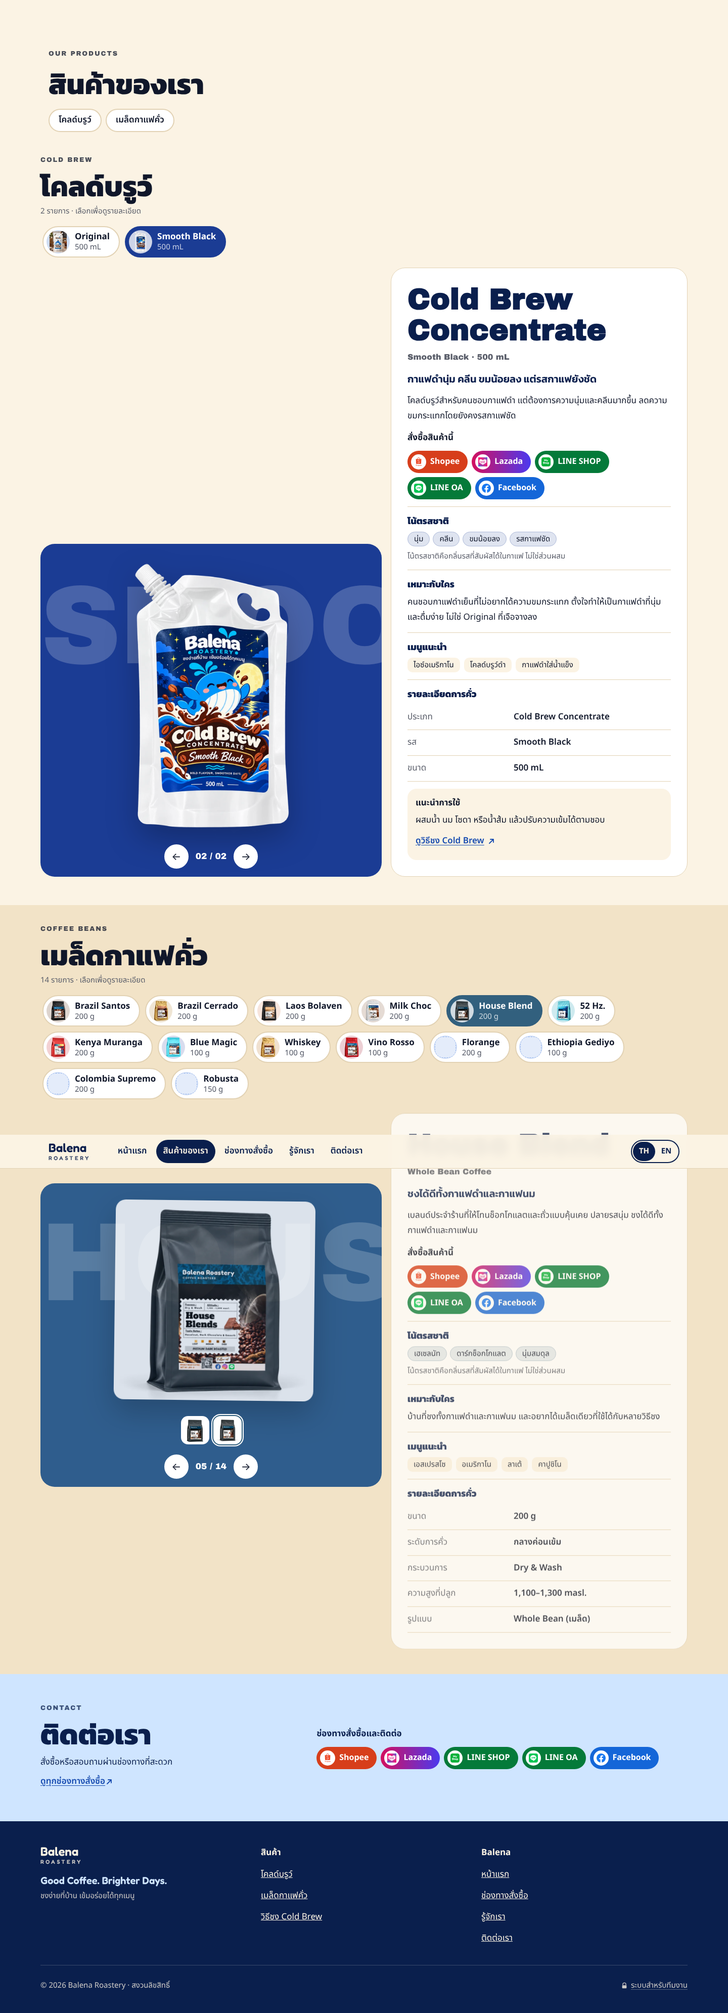
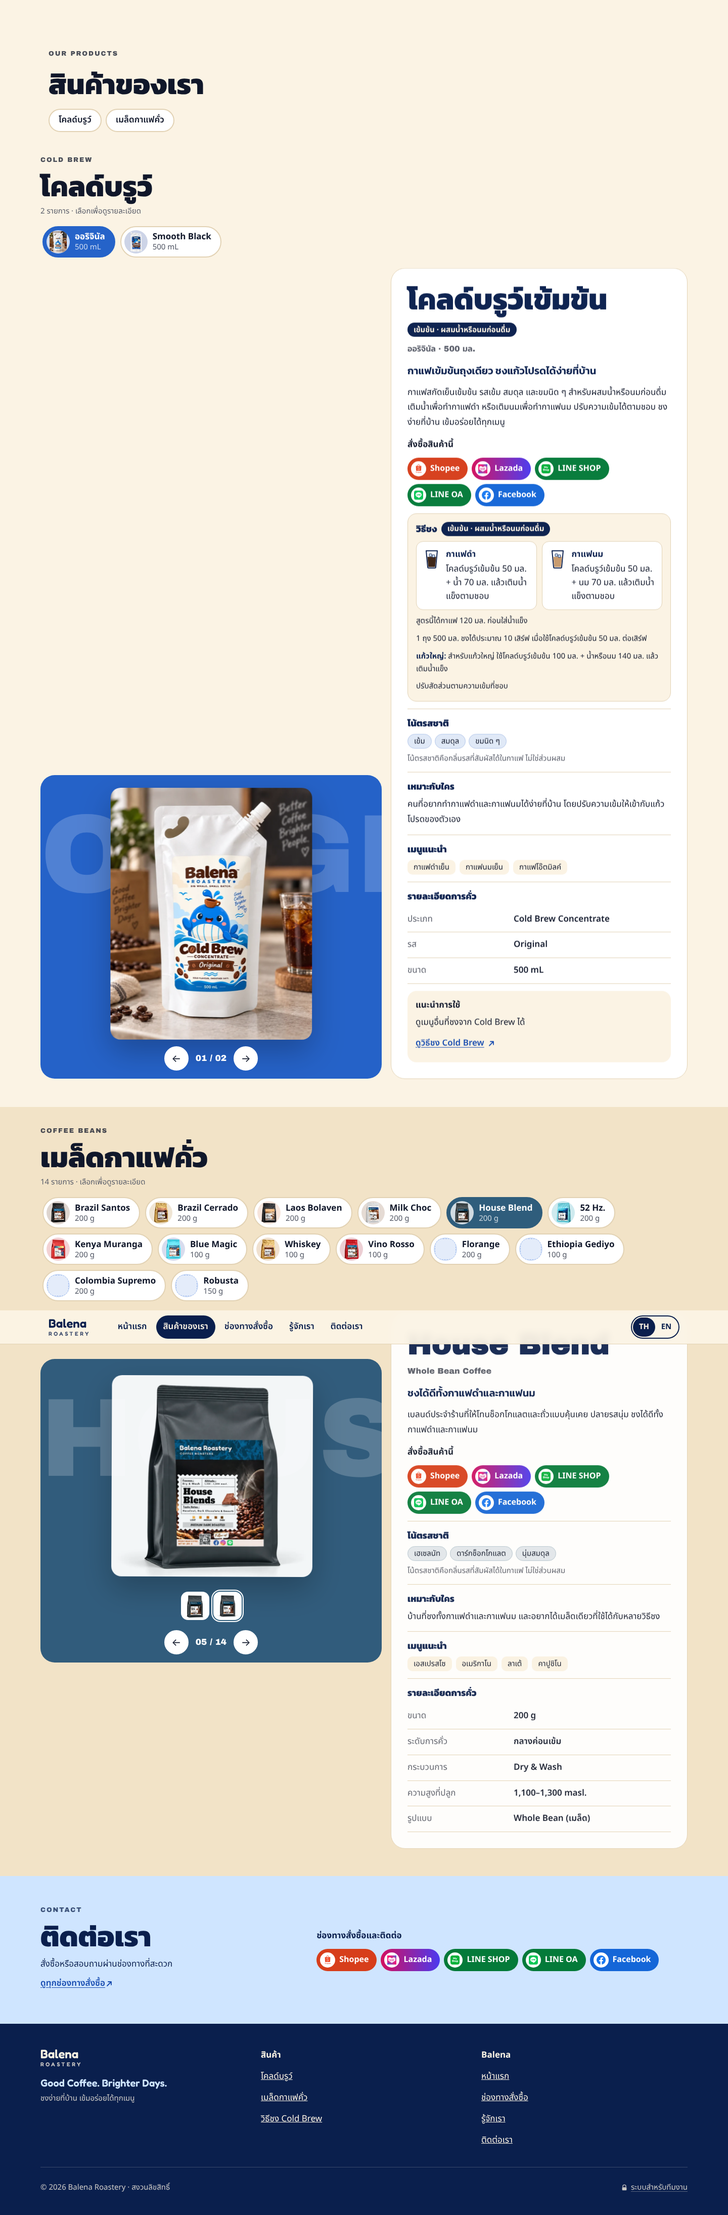
Original cold brew: concentrate label photo, owner's TH/EN copy, how-to-mix
- New photo (the owner's café pouch with the Cold Brew CONCENTRATE · Original ·
  500 mL label), unchanged and uncropped, as 480/960 webp; Meta catalog JPG too.
  Smooth Black and other products untouched.
- Name โคลด์บรูว์เข้มข้น / Cold Brew Concentrate, variant ออริจินัล · 500 มล.,
  headline, description, notes, who it's for and drinks as supplied.
- 'เข้มข้น · ผสมน้ำหรือนมก่อนดื่ม / Concentrate · mix with water or milk' by the
  name and on the home card; 'วิธีชง / How to mix' cards (50 + 70 mL water or
  milk), 120 mL before ice, ~10 servings per pouch, larger drink, adjust note.
- Slug, links, purchase buttons and Meta id unchanged; check:site covers it.

Claude-Session: https://claude.ai/code/session_01NhFLDnAE3nR7iToKXbduQe

diff --git a/src/data/products.ts b/src/data/products.ts
@@ -48,6 +48,24 @@ export type Product = {
   shortName: string;
   /** Second line under the name, from the label. */
   subtitle: string;
+  /**
+   * Owner-supplied Thai/English name, variant and short (chip) name. When set they replace
+   * `name`, `subtitle` and `shortName` on the page; read them with nameOf/variantOf/shortOf.
+   */
+  title?: T;
+  variant?: T;
+  chip?: T;
+  /** A concentrate: shows "เข้มข้น / Concentrate" by the name. Must be mixed before drinking. */
+  concentrate?: boolean;
+  /** "วิธีชง / How to mix" cards and notes, exactly as the owner supplied them. */
+  howToMix?: {
+    cards: { kind: "black" | "milk"; title: T; text: T }[];
+    /** What one serving makes, e.g. 120 mL before ice. */
+    makes: T;
+    servings: T;
+    larger: T;
+    adjust: T;
+  };
   category: Category;
   status: Status;
   /**
@@ -160,32 +178,58 @@ export const allProducts: Product[] = [
   // ---------- Cold brew ----------
   {
     slug: "cold-brew-coffee-original",
-    name: "Cold Brew Coffee",
+    // Slug kept from the first listing (addresses and Meta ids use it); the product is a concentrate.
+    name: "Cold Brew Concentrate",
     shortName: "Original",
     subtitle: "Original · 500 mL",
+    title: t("โคลด์บรูว์เข้มข้น", "Cold Brew Concentrate"),
+    variant: t("ออริจินัล · 500 มล.", "Original · 500 mL"),
+    chip: t("ออริจินัล", "Original"),
+    concentrate: true,
     category: "cold-brew",
     status: "available",
     published: true,
     images: [{
-      file: "cold-brew-coffee-original", width: 1122, height: 1402, cutout: false,
-      alt: t("ถุง Balena Cold Brew Coffee Original 500 มล. วางบนเคาน์เตอร์ ข้างแก้วกาแฟเย็น", "Balena Cold Brew Coffee Original 500 mL pouch on a counter next to a glass of iced coffee"),
+      file: "cold-brew-concentrate-original", width: 1122, height: 1402, cutout: false,
+      alt: t(
+        "ถุง Balena Cold Brew Concentrate Original 500 มล. มีจุกเกลียว วางบนเคาน์เตอร์ ข้างแก้วกาแฟเย็น",
+        "Balena Cold Brew Concentrate Original 500 mL spouted pouch on a counter next to a glass of iced coffee",
+      ),
     }],
     size: "500 mL",
     sizeId: "500ml",
     type: "Cold Brew Concentrate",
     flavour: "Original",
-    benefit: t("เบสกาแฟอเนกประสงค์ ทำได้ทั้งกาแฟดำและกาแฟนม", "A versatile base for black and milk coffee"),
+    benefit: t("กาแฟเข้มข้นถุงเดียว ชงแก้วโปรดได้ง่ายที่บ้าน", "One pouch. Your favourite coffee, made simple."),
     story: t(
-      "โคลด์บรูว์ตัวหลักของ Balena เป็นกาแฟเข้มข้นที่ต่อยอดได้ง่าย เติมน้ำเป็นกาแฟดำ หรือเติมนมเป็นกาแฟนมได้ภายในไม่กี่วินาที",
-      "The core Balena cold brew: a versatile concentrated coffee base that can become black coffee or milk coffee in seconds.",
+      "กาแฟสกัดเย็นเข้มข้น รสเข้ม สมดุล และขมนิด\u00A0ๆ สำหรับผสมน้ำหรือนมก่อนดื่ม เติมน้ำเพื่อทำกาแฟดำ หรือเติมนมเพื่อทำกาแฟนม ปรับความเข้มได้ตามชอบ ชงง่ายที่บ้าน เข้มอร่อยได้ทุกเมนู",
+      "A bold, balanced cold brew concentrate with a lightly bitter finish. Mix with water for black coffee or milk for a creamy coffee, then adjust the strength to your taste. Your favorite coffee, made simple.",
     ),
-    notes: [t("เข้ม", "Bold"), t("สมดุล", "Balanced"), t("ขมนิด\u00A0ๆ", "Slightly bitter")],
+    notes: [t("เข้ม", "Bold"), t("สมดุล", "Balanced"), t("ขมนิด\u00A0ๆ", "Lightly bitter")],
     whoFor: t(
-      "คนที่อยากมีเบสกาแฟติดตู้เย็นไว้ทำได้ทั้งกาแฟดำและกาแฟนมที่บ้าน เป็นรสมาตรฐานของไลน์โคลด์บรูว์",
-      "Anyone who wants one coffee base at home for both black and milk drinks. It's the benchmark flavour of the range.",
+      "คนที่อยากทำกาแฟดำและกาแฟนมได้ง่ายที่บ้าน โดยปรับความเข้มให้เข้ากับแก้วโปรดของตัวเอง",
+      "For anyone who wants easy black or milk coffee at home, with the freedom to adjust each cup to their taste.",
     ),
-    drinks: [t("กาแฟดำ", "Black"), t("อเมริกาโน", "Americano"), t("กาแฟนม", "Milk coffee"), t("กาแฟโอ๊ตมิลค์", "Oat milk coffee")],
-    use: COLD_BREW_USE,
+    drinks: [t("กาแฟดำเย็น", "Iced Black Coffee"), t("กาแฟนมเย็น", "Iced Milk Coffee"), t("กาแฟโอ๊ตมิลค์", "Oat Milk Coffee")],
+    howToMix: {
+      cards: [
+        { kind: "black", title: t("กาแฟดำ", "Black coffee"),
+          text: t("โคลด์บรูว์เข้มข้น 50 มล. + น้ำ 70 มล. แล้วเติมน้ำแข็งตามชอบ", "Mix 50 mL concentrate with 70 mL water, then add ice to taste.") },
+        { kind: "milk", title: t("กาแฟนม", "Milk coffee"),
+          text: t("โคลด์บรูว์เข้มข้น 50 มล. + นม 70 มล. แล้วเติมน้ำแข็งตามชอบ", "Mix 50 mL concentrate with 70 mL milk, then add ice to taste.") },
+      ],
+      makes: t("สูตรนี้ได้กาแฟ 120 มล. ก่อนใส่น้ำแข็ง", "This recipe makes 120 mL before ice."),
+      servings: t(
+        "1 ถุง 500 มล. ชงได้ประมาณ 10 เสิร์ฟ เมื่อใช้โคลด์บรูว์เข้มข้น 50 มล. ต่อเสิร์ฟ",
+        "One 500 mL pouch makes approximately 10 servings when using 50 mL concentrate per serving.",
+      ),
+      larger: t(
+        "สำหรับแก้วใหญ่ ใช้โคลด์บรูว์เข้มข้น 100 มล. + น้ำหรือนม 140 มล. แล้วเติมน้ำแข็ง",
+        "For a larger drink, mix 100 mL concentrate with 140 mL water or milk, then add ice.",
+      ),
+      adjust: t("ปรับสัดส่วนตามความเข้มที่ชอบ", "Adjust the ratio to your preferred strength."),
+    },
+    use: { text: t("ดูเมนูอื่นที่ชงจาก Cold Brew ได้", "More drinks you can make with Cold Brew"), link: RECIPES },
     accent: "#2563c9",
     internal: {
       csvName: "Original", aliases: ["Cold Brew Coffee Original", "Cold Brew Concentrate Original"],
@@ -193,7 +237,11 @@ export const allProducts: Product[] = [
       difference: t("เป็นรสหลักมาตรฐานของไลน์ และใช้งานได้หลากหลายที่สุด", "The benchmark flavour and most versatile cold-brew option."),
       opsCodes: ["CB-ORIGINAL-500"],
     },
-    gaps: ["ราคา", "สต็อก", "ฉลากเขียน \"Cold Brew Coffee\" ส่วน CSV ระบุ Cold Brew Concentrate", "มีแต่ภาพถ่ายพร้อมฉากหลัง ยังไม่มีภาพตัดพื้น"],
+    gaps: [
+      "ราคา", "สต็อก",
+      "สัดส่วนบนหน้านี้ 50 + 70 มล. (เจ้าของกำหนด) แต่หน้าวิธีชง /cold-brew-recipes/ ใช้ 50 + 100 มล.",
+      "รูปที่ใช้เป็นสำเนาจากแชต (webp 1122 × 1402) ไม่ใช่ไฟล์ PNG ต้นฉบับ",
+    ],
   },
   {
     slug: "cold-brew-concentrate-smooth-black",
@@ -624,6 +672,13 @@ export const allProducts: Product[] = [
     extraGaps: ["กระบวนการและระดับการคั่วขึ้นอยู่กับล็อต"],
   }),
 ];
+
+/** The name, variant and chip name in the page language (owner-supplied translation or label text). */
+export const nameOf = (p: Product, lang: Lang) => p.title?.[lang] ?? p.name;
+export const variantOf = (p: Product, lang: Lang) => p.variant?.[lang] ?? p.subtitle;
+export const shortOf = (p: Product, lang: Lang) => p.chip?.[lang] ?? p.shortName;
+/** True when the name follows the page language (else it is printed English). */
+export const translatedName = (p: Product) => !!p.title;
 
 /** Products shown on the site. */
 export const products: Product[] = allProducts.filter((p) => p.published);

diff --git a/src/shop/ui.tsx b/src/shop/ui.tsx
@@ -1,5 +1,5 @@
 import { useEffect, useState, type CSSProperties, type ReactNode } from "react";
-import { purchasable, type Product, type ProductImage } from "../data/products";
+import { nameOf, purchasable, variantOf, type Product, type ProductImage } from "../data/products";
 import { setLang, useDocumentLang, useLang, type Lang } from "../i18n/lang";
 import { shopText, type ShopText } from "../i18n/shop";
 import { CHANNEL_LOGOS } from "../config/purchase-links";
@@ -67,6 +67,47 @@ export function NoteTags({ product, max }: { product: Product; max?: number }) {
   );
 }
 
+/** "เข้มข้น / Concentrate": shown next to a concentrate's name so nobody drinks it straight. */
+export function ConcentrateBadge() {
+  const t = useText();
+  return <span className="conc-badge">{t.catalog.concentrate}</span>;
+}
+
+/** A small glass: dark coffee for black, lighter for milk (decorative). */
+function Glass({ kind }: { kind: "black" | "milk" }) {
+  return (
+    <svg className="mix__glass" viewBox="0 0 32 40" width="32" height="40" aria-hidden="true" focusable="false">
+      <path d="M5 4h22l-3 32a2 2 0 0 1-2 2H10a2 2 0 0 1-2-2L5 4z" fill="#fff" stroke="currentColor" strokeWidth="2" strokeLinejoin="round" />
+      <path d="M7.4 16h17.2l-2 20H9.4z" fill={kind === "black" ? "#3b2214" : "#c89a6c"} />
+      <rect x="11" y="10" width="5" height="5" rx="1" fill="#cfe5ff" stroke="currentColor" strokeWidth="1" />
+      <rect x="17" y="12" width="5" height="5" rx="1" fill="#cfe5ff" stroke="currentColor" strokeWidth="1" />
+    </svg>
+  );
+}
+
+/** "วิธีชง / How to mix": recipe cards, what one serving makes, servings per pouch, larger drink. */
+export function HowToMix({ product }: { product: Product }) {
+  const t = useText();
+  const m = product.howToMix!;
+  return (
+    <section className="mix" aria-labelledby={`${product.slug}-mix`}>
+      <h4 id={`${product.slug}-mix`}>{t.catalog.mixTitle} {product.concentrate && <ConcentrateBadge />}</h4>
+      <ul className="mix__cards">
+        {m.cards.map((c) => (
+          <li key={c.kind} className={`mix__card mix__card--${c.kind}`}>
+            <Glass kind={c.kind} />
+            <span><strong>{c.title[t.lang]}</strong><span>{c.text[t.lang]}</span></span>
+          </li>
+        ))}
+      </ul>
+      <p className="mix__note">{m.makes[t.lang]}</p>
+      <p className="mix__note">{m.servings[t.lang]}</p>
+      <p className="mix__note"><strong>{t.catalog.mixLarger}:</strong> {m.larger[t.lang]}</p>
+      <p className="mix__note">{m.adjust[t.lang]}</p>
+    </section>
+  );
+}
+
 /** "เร็ว ๆ นี้ / Coming soon" for planned products. */
 export function SoonBadge() {
   const t = useText();
@@ -99,7 +140,7 @@ export function PurchaseLinks({ product, heading }: { product?: Product; heading
     );
   }
   const links = linksFor(product?.slug);
-  const label = product ? `${product.name} ${product.subtitle}` : "Balena Roastery";
+  const label = product ? `${nameOf(product, t.lang)} ${variantOf(product, t.lang)}` : "Balena Roastery";
   return (
     <div className="buy">
       <p className="buy__h">{heading}</p>

diff --git a/src/shop/HomePage.tsx b/src/shop/HomePage.tsx
@@ -1,7 +1,7 @@
 import { useEffect } from "react";
-import { inCategory, productHref, products } from "../data/products";
+import { inCategory, nameOf, productHref, products, shortOf, variantOf } from "../data/products";
 import { HERO_HOOKS, fill } from "../i18n/shop";
-import { Arrow, NoteTags, ProductImg, Shell, SoonBadge, accentStyle, useText } from "./ui";
+import { Arrow, ConcentrateBadge, NoteTags, ProductImg, Shell, SoonBadge, accentStyle, useText } from "./ui";
 
 const pouch = products.find((p) => p.slug === "cold-brew-concentrate-smooth-black")!;
 const coldBrew = inCategory("cold-brew");
@@ -77,12 +77,13 @@ function HomeBody() {
               <li key={p.slug} style={accentStyle(p)}>
                 <article className="pouch-card">
                   <span className="pouch-card__img"><ProductImg img={p.images[0]} sizes="(min-width: 900px) 30vw, 80vw" /></span>
-                  <h3 className="pouch-card__name" lang="en">{p.shortName}</h3>
-                  <p className="pouch-card__sub" lang="en">{p.name} · {p.size}</p>
+                  <h3 className="pouch-card__name" lang={p.chip ? undefined : "en"}>{shortOf(p, t.lang)}</h3>
+                  <p className="pouch-card__sub" lang={p.title ? undefined : "en"}>{nameOf(p, t.lang)} · {p.size}</p>
+                  {p.concentrate && <ConcentrateBadge />}
                   {p.status === "planned" && <SoonBadge />}
                   <p className="pouch-card__benefit">{p.benefit[t.lang]}</p>
                   <NoteTags product={p} max={3} />
-                  <a className="btn btn--cream btn--sm" href={productHref(p)} aria-label={`${t.home.details}: ${p.name} ${p.subtitle}`}>
+                  <a className="btn btn--cream btn--sm" href={productHref(p)} aria-label={`${t.home.details}: ${nameOf(p, t.lang)} ${variantOf(p, t.lang)}`}>
                     {t.home.detailsShort} <Arrow />
                   </a>
                 </article>
@@ -107,9 +108,9 @@ function HomeBody() {
           <ul className="shelf">
             {beans.map((p) => (
               <li key={p.slug} style={accentStyle(p)}>
-                <a href={productHref(p)} className="shelf__item" aria-label={`${t.home.details}: ${p.name} ${p.size}`}>
+                <a href={productHref(p)} className="shelf__item" aria-label={`${t.home.details}: ${nameOf(p, t.lang)} ${p.size}`}>
                   <span className="shelf__img"><ProductImg img={p.images[0]} sizes="(min-width: 900px) 18vw, 40vw" /></span>
-                  <span className="shelf__name" lang="en">{p.name}</span>
+                  <span className="shelf__name" lang={p.title ? undefined : "en"}>{nameOf(p, t.lang)}</span>
                   <span className="shelf__size">{p.size}</span>
                   {p.status === "planned" && <SoonBadge />}
                   <span className="shelf__benefit">{p.benefit[t.lang]}</span>

diff --git a/src/shop/CatalogPage.tsx b/src/shop/CatalogPage.tsx
@@ -1,7 +1,7 @@
 import { useEffect, useRef, useState, useSyncExternalStore, type KeyboardEvent } from "react";
-import { CATEGORIES, bySlug, factsOf, inCategory, type Category, type Product } from "../data/products";
+import { CATEGORIES, bySlug, factsOf, inCategory, nameOf, shortOf, variantOf, type Category, type Product } from "../data/products";
 import { fill } from "../i18n/shop";
-import { Arrow, NoteTags, ProductImg, PurchaseLinks, Shell, SoonBadge, accentStyle, useText } from "./ui";
+import { Arrow, ConcentrateBadge, HowToMix, NoteTags, ProductImg, PurchaseLinks, Shell, SoonBadge, accentStyle, useText } from "./ui";
 
 /*
  * Every product on one page: cold brew first (#cold-brew), coffee beans below (#coffee-beans).
@@ -136,7 +136,7 @@ function CategorySection({ category, id, current, onChoose }: {
               className={`chip ${p === current ? "is-on" : ""}`} style={accentStyle(p)} onClick={() => onChoose(p)}>
               <span className="chip__img"><ProductImg img={p.images[0]} sizes="80px" /></span>
               <span className="chip__text">
-                <span className="chip__name" lang="en">{p.shortName}</span>
+                <span className="chip__name" lang={p.chip ? undefined : "en"}>{shortOf(p, t.lang)}</span>
                 <span className="chip__size">{p.status === "planned" ? `${p.size} · ${t.catalog.soon}` : p.size}</span>
               </span>
             </button>
@@ -169,12 +169,14 @@ function CategorySection({ category, id, current, onChoose }: {
           </div>
 
           <article className="catalog__panel" key={current.slug}>
-            <h3 className="catalog__name" lang="en">{current.name}</h3>
-            <p className="catalog__sub" lang="en">{current.subtitle}</p>
+            <h3 className="catalog__name" lang={current.title ? undefined : "en"}>{nameOf(current, t.lang)}</h3>
+            {current.concentrate && <p><ConcentrateBadge /></p>}
+            <p className="catalog__sub" lang={current.variant ? undefined : "en"}>{variantOf(current, t.lang)}</p>
             {current.status === "planned" && <p><SoonBadge /></p>}
             <p className="catalog__benefit">{current.benefit[t.lang]}</p>
             <p className="catalog__intro">{current.story[t.lang]}</p>
             <PurchaseLinks product={current} heading={t.buy.headingProduct} />
+            {current.howToMix && <HowToMix product={current} />}
             <div className="catalog__block">
               <h4>{t.catalog.notes}</h4>
               <NoteTags product={current} />

diff --git a/src/shop/shop.css b/src/shop/shop.css
@@ -403,3 +403,16 @@ button, input, textarea { font: inherit; color: inherit; }
 .drink-list li { font-size: 15px; line-height: 1.4; padding: 4px 12px; border-radius: 10px; background: var(--cream); }
 .specs__note { display: block; font-weight: 400; font-size: 15px; color: var(--muted); line-height: 1.6; }
 .buy__soon .soon-badge { margin-right: 6px; }
+
+/* ---------- concentrate badge and "how to mix" ---------- */
+.conc-badge { display: inline-flex; align-items: center; min-height: 28px; padding: 2px 12px; border-radius: 999px; background: var(--navy); color: var(--cream); font-family: var(--body); font-size: 15px; font-weight: 700; line-height: 1.4; vertical-align: middle; }
+.pouch-card .conc-badge { background: var(--cream); color: var(--navy); }
+.mix { display: grid; gap: 10px; padding: 16px; border-radius: 18px; background: var(--cream); border: 1px solid var(--line); }
+.mix h4 { margin: 0; display: flex; flex-wrap: wrap; align-items: center; gap: 8px; font-family: var(--display-th); font-weight: 700; font-size: 18px; line-height: 1.5; color: var(--navy); }
+.mix__cards { display: grid; gap: 10px; grid-template-columns: repeat(auto-fit, minmax(min(100%, 220px), 1fr)); }
+.mix__card { display: flex; gap: 12px; align-items: flex-start; background: var(--white); border-radius: 14px; padding: 12px 14px; border: 1px solid var(--line); color: var(--navy); }
+.mix__card > span { display: grid; gap: 2px; color: var(--ink); line-height: 1.6; }
+.mix__card strong { color: var(--navy); }
+.mix__glass { flex: none; margin-top: 2px; }
+.mix__note { font-size: 15px; line-height: 1.65; color: var(--ink); }
+.mix__note strong { color: var(--navy); }

diff --git a/src/i18n/shop.ts b/src/i18n/shop.ts
@@ -110,6 +110,9 @@ const th = {
     soon: "เร็ว\u00A0ๆ นี้",
     soonText: "สินค้านี้ยังไม่เปิดขาย",
     noPhoto: "ยังไม่มีรูปสินค้า",
+    concentrate: "เข้มข้น · ผสมน้ำหรือนมก่อนดื่ม",
+    mixTitle: "วิธีชง",
+    mixLarger: "แก้วใหญ่",
     facts: {
       type: "ประเภท",
       flavour: "รส",
@@ -296,6 +299,9 @@ const en: ShopText = {
     soon: "Coming soon",
     soonText: "Not on sale yet",
     noPhoto: "Photo coming soon",
+    concentrate: "Concentrate · mix with water or milk",
+    mixTitle: "How to mix",
+    mixLarger: "Larger drink",
     facts: {
       type: "Type",
       flavour: "Flavour",

diff --git a/tools/catalog/make-images.py b/tools/catalog/make-images.py
@@ -13,7 +13,7 @@ OUT = ROOT / "public/catalog"
 # slug -> original file (same mapping as docs/TRIAL.md)
 FILES = {
     "cold-brew-concentrate-smooth-black": "Balena Cold Brew Spout Pouch.png",
-    "cold-brew-coffee-original": "ChatGPT Image Sep 15, 2026, 12_52_34 PM (1).png",
+    "cold-brew-coffee-original": "Balena Cold Brew Café Pouch.webp",  # concentrate label (replaced the café photo)
     "brazil-santos": "Brasil Santos.png",
     "brazil-cerrado": "Brasil Cerrado.png",
     "laos-bolaven": "Laos Bolaven.png",

diff --git a/docs/STOREFRONT.md b/docs/STOREFRONT.md
@@ -153,7 +153,7 @@ Images:
 | Product (slug) | Source file |
 |---|---|
 | Cold Brew Concentrate, Smooth Black 500 mL (`cold-brew-concentrate-smooth-black`) | `Balena Cold Brew Spout Pouch.png` |
-| Cold Brew Coffee, Original 500 mL (`cold-brew-coffee-original`) | `ChatGPT Image Sep 15, 2026, 12_52_34 PM (1).png` (photo with background) |
+| Cold Brew Concentrate, Original 500 mL (`cold-brew-coffee-original`) | `Balena Cold Brew Café Pouch.webp` (owner's "Balena Cold Brew Café Pouch.png", received as a chat copy, 1122 × 1402; label reads Cold Brew CONCENTRATE · Original · 500 mL). Served as `cold-brew-concentrate-original-480/960.webp`. Replaced the earlier café photo whose label read "Cold Brew Coffee". |
 | Brazil Santos | `Brasil Santos.png` |
 | Brazil Cerrado | `Brasil Cerrado.png` |
 | Laos Bolaven | `Laos Bolaven.png` |
@@ -211,8 +211,11 @@ left out of the Meta catalog until a photo exists.
      Medium Light, which the CSV gives to Vino Rosso. The CSV gives 52 Hz. a medium roast
      *direction* and chocolate–hazelnut notes. The text follows the CSV; the photo needs replacing.
    - **Smooth Black status:** "Current / พัฒนาเป็น SKU หลัก". It stays available, as it already was.
-   - **Cold brew Original:** the pouch says "Cold Brew Coffee"; the CSV calls it Cold Brew
-     Concentrate. The site follows the CSV (type and usage advice).
+   - **Cold brew Original:** resolved. It is a concentrate; the photo now shows the concentrate
+     label, and the page has the owner's copy and a "วิธีชง / How to mix" section (50 mL + 70 mL
+     water or milk, 120 mL before ice, about 10 servings per pouch; larger drink 100 + 140 mL).
+   - **Mixing ratio:** the Original page uses 50 + 70 mL (owner's copy); the recipe page
+     `/cold-brew-recipes/` still uses 50 + 100 mL for its black and milk coffee. Not changed.
 
 1. **Purchase links:** none yet, for any channel or product. LINE SHOPPING was a channel on the
    earlier home page; it isn't in the new list. Add it to `Channel` if it's still used.
